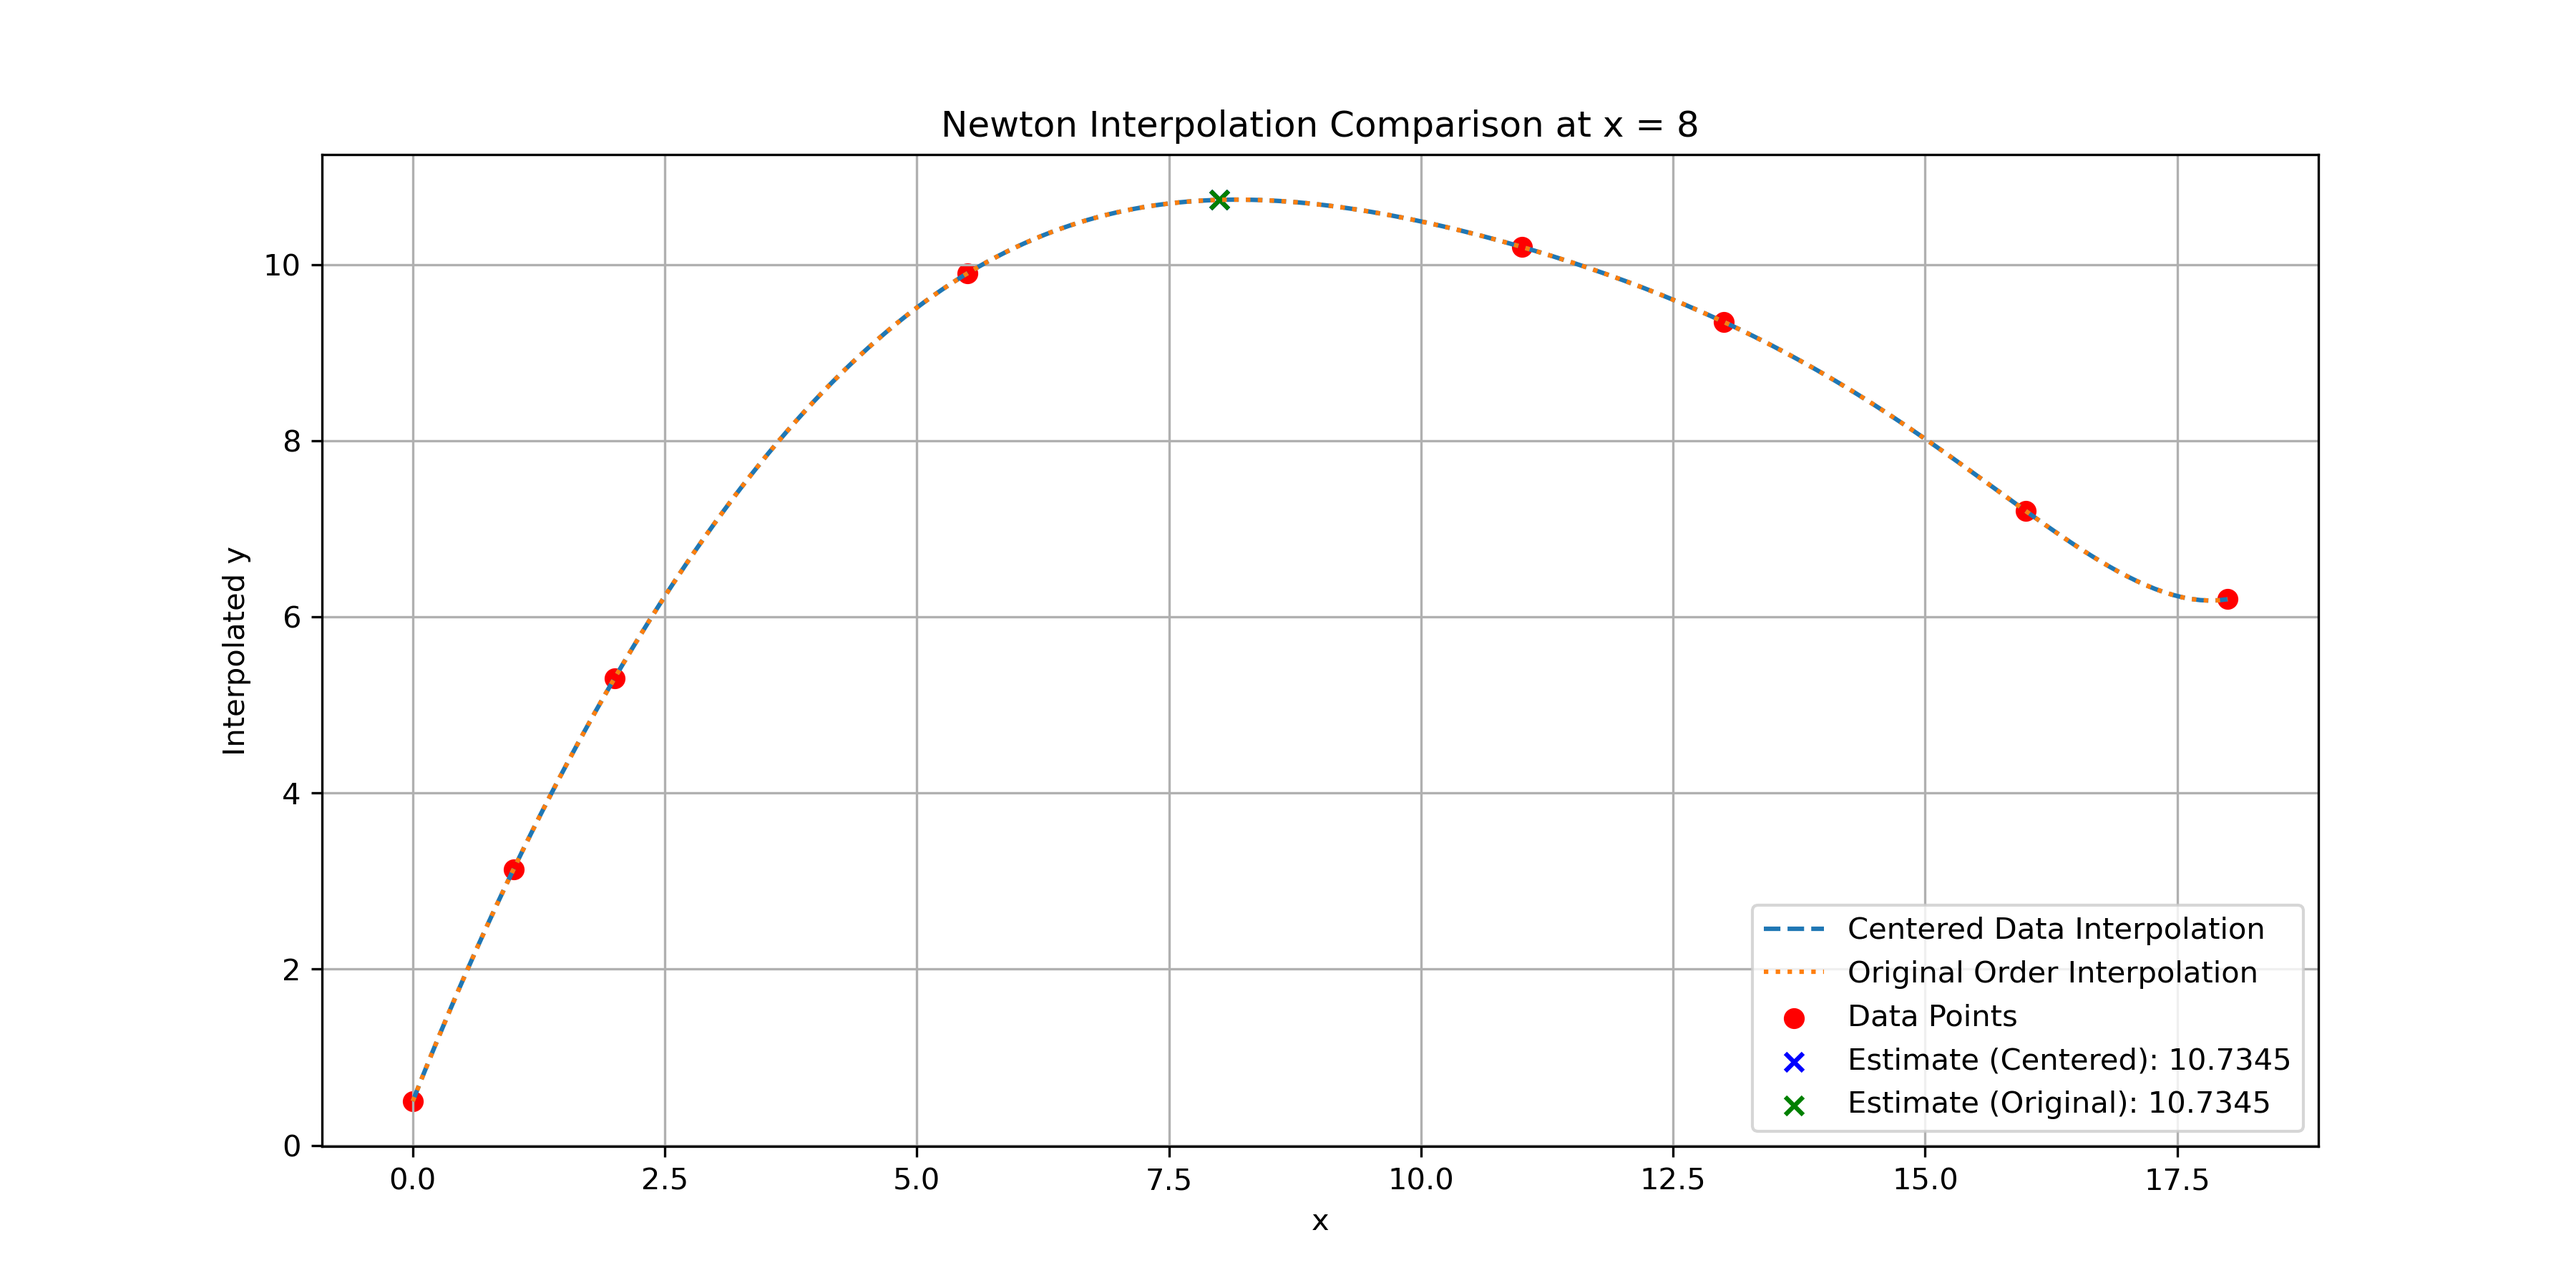
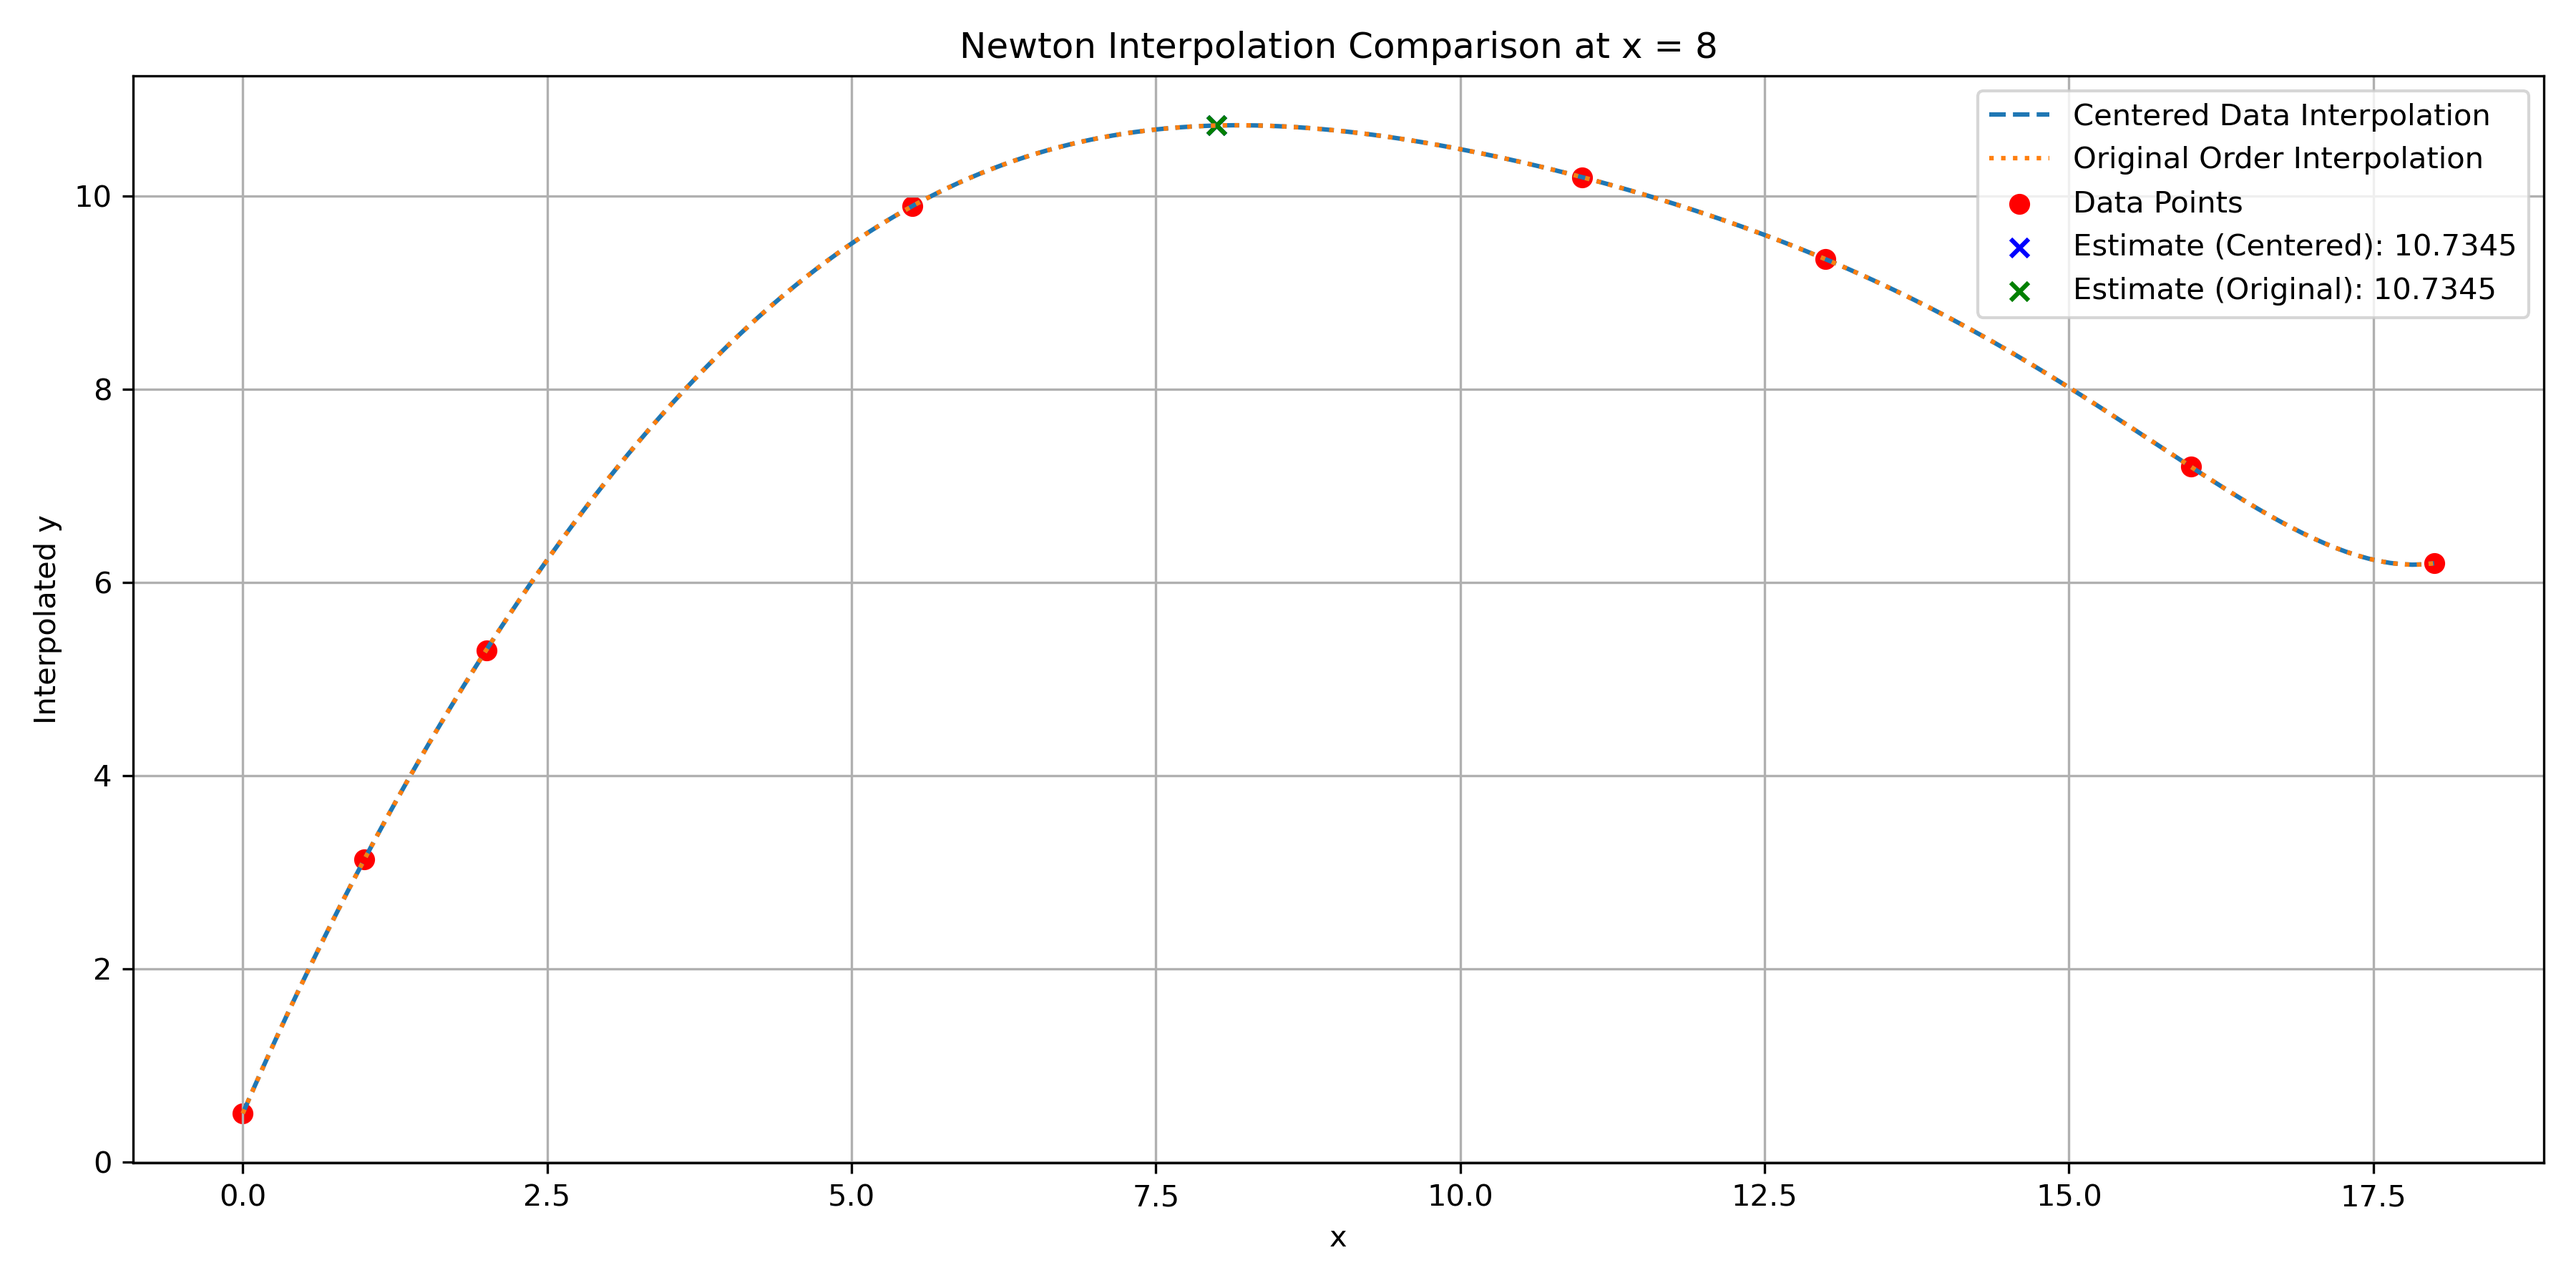
Update 17.3

diff --git a/Python/polynomials/prob_17_3.py b/Python/polynomials/prob_17_3.py
@@ -13,47 +13,87 @@ data_points = np.array([
     (18, 6.2)
 ])
 
-# Step 1: Sort points around x = 8 to maximize interpolation accuracy
-# Sort by the distance from x = 8
-centered_data_points = data_points[np.argsort(abs(data_points[:, 0] - 8))]
+x_target = 8.0
 
-def divided_differences(x, y):
-    """ Function to calculate divided differences """
+# Step 1: Sort points around x = 8 to maximize interpolation accuracy
+centered_data_points = data_points[np.argsort(np.abs(data_points[:, 0] - x_target))]
+
+
+def divided_differences_table(x, y):
+    """
+    Build the full divided-difference table.
+    Returns an n x n array 'coef' where
+      coef[i, 0] = f(x_i)
+      coef[i, 1] = f[x_i, x_{i+1}]
+      ...
+    The Newton coefficients are the first row coef[0, :].
+    """
     n = len(y)
-    coef = np.zeros([n, n])
+    coef = np.zeros((n, n))
     coef[:, 0] = y
     for j in range(1, n):
         for i in range(n - j):
-            coef[i][j] = (coef[i + 1][j - 1] - coef[i]
-                          [j - 1]) / (x[i + j] - x[i])
-    return coef[0]
+            coef[i, j] = (coef[i + 1, j - 1] - coef[i, j - 1]) / (x[i + j] - x[i])
+    return coef
 
-def newton_polynomial(coef, x_data, x):
-    """ Function to calculate Newton's interpolating polynomial at x = 8 """
-    n = len(coef) - 1
-    p = coef[n]
+
+def newton_polynomial(coef_row, x_data, x):
+    """
+    Evaluate Newton's interpolating polynomial at x using
+    the coefficients from the first row of the divided-difference table.
+    """
+    n = len(coef_row) - 1
+    p = coef_row[n]
     for k in range(1, n + 1):
-        p = coef[n - k] + (x - x_data[n - k]) * p
+        p = coef_row[n - k] + (x - x_data[n - k]) * p
     return p
 
-# Compute finite divided differences and interpolate with optimal ordering
+
+def print_divided_diff_table(title, x, table):
+    """
+    Pretty-print the divided-difference table.
+    Only the upper triangle (i <= n-1-j) is meaningful.
+    """
+    n = len(x)
+    print("\n" + title)
+    print("-" * (12 * (n + 1)))
+    header = ["x_i", "f[x_i]"] + [f"Δ^{j}f" for j in range(1, n)]
+    print("".join(f"{h:>12s}" for h in header))
+    for i in range(n):
+        row = [f"{x[i]:.4g}", f"{table[i,0]:.6g}"]
+        for j in range(1, n):
+            if i <= n - 1 - j:
+                row.append(f"{table[i,j]:.6g}")
+            else:
+                row.append("")  # blank for entries below the "staircase"
+        print("".join(f"{r:>12s}" for r in row))
+
+
+# --- Centered ordering ---
 x_centered = centered_data_points[:, 0]
 y_centered = centered_data_points[:, 1]
-coef_centered = divided_differences(x_centered, y_centered)
-estimate_centered = newton_polynomial(coef_centered, x_centered, 8)
+table_centered = divided_differences_table(x_centered, y_centered)
+coef_centered = table_centered[0, :]       # first row = Newton coefficients
+estimate_centered = newton_polynomial(coef_centered, x_centered, x_target)
 
-# Compute finite divided differences and interpolate with original ordering
+# --- Original ordering ---
 x_original = data_points[:, 0]
 y_original = data_points[:, 1]
-coef_original = divided_differences(x_original, y_original)
-estimate_original = newton_polynomial(coef_original, x_original, 8)
+table_original = divided_differences_table(x_original, y_original)
+coef_original = table_original[0, :]
+estimate_original = newton_polynomial(coef_original, x_original, x_target)
 
-# Plotting the results
+# Print both tables
+print_divided_diff_table("Divided-Difference Table (Centered Ordering)", x_centered, table_centered)
+print_divided_diff_table("Divided-Difference Table (Original Ordering)", x_original, table_original)
+
+print(f"\nEstimate at x = {x_target} (centered ordering) : {estimate_centered:.6f}")
+print(f"Estimate at x = {x_target} (original ordering) : {estimate_original:.6f}")
+
+# --- Plotting the results ---
 x_vals = np.linspace(0, 18, 200)
-y_centered_vals = [newton_polynomial(
-    coef_centered, x_centered, xv) for xv in x_vals]
-y_original_vals = [newton_polynomial(
-    coef_original, x_original, xv) for xv in x_vals]
+y_centered_vals = [newton_polynomial(coef_centered, x_centered, xv) for xv in x_vals]
+y_original_vals = [newton_polynomial(coef_original, x_original, xv) for xv in x_vals]
 
 plt.figure(figsize=(12, 6))
 plt.plot(x_vals, y_centered_vals,
@@ -62,15 +102,17 @@ plt.plot(x_vals, y_original_vals,
          label='Original Order Interpolation', linestyle=':')
 plt.scatter(data_points[:, 0], data_points[:, 1],
             color='red', label='Data Points')
-plt.scatter(8, estimate_centered, color='blue',
+plt.scatter(x_target, estimate_centered, color='blue',
             label=f'Estimate (Centered): {estimate_centered:.4f}', marker='x')
-plt.scatter(8, estimate_original, color='green',
+plt.scatter(x_target, estimate_original, color='green',
             label=f'Estimate (Original): {estimate_original:.4f}', marker='x')
+
 plt.legend()
 plt.xlabel('x')
 plt.ylabel('Interpolated y')
 plt.title('Newton Interpolation Comparison at x = 8')
 plt.grid(True)
+plt.tight_layout()
 plt.savefig("prob_17_3.png", dpi=300)
+print("\nSaved figure: prob_17_3.png")
 plt.show()
-estimate_centered, estimate_original
